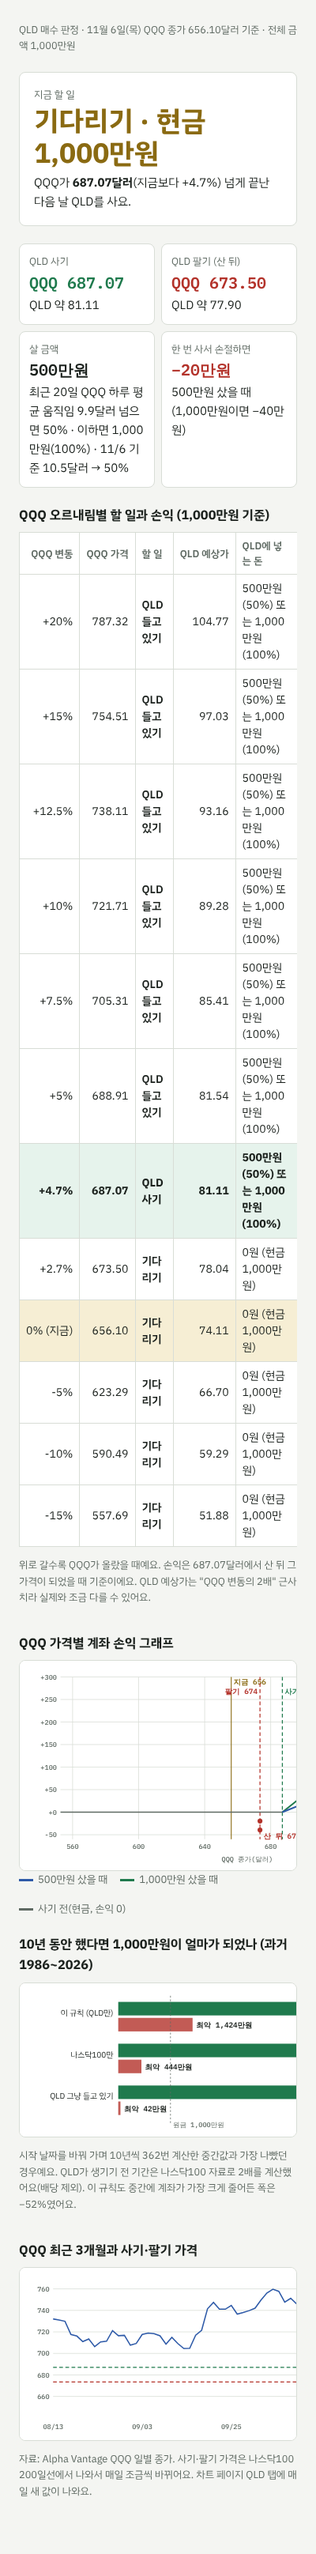
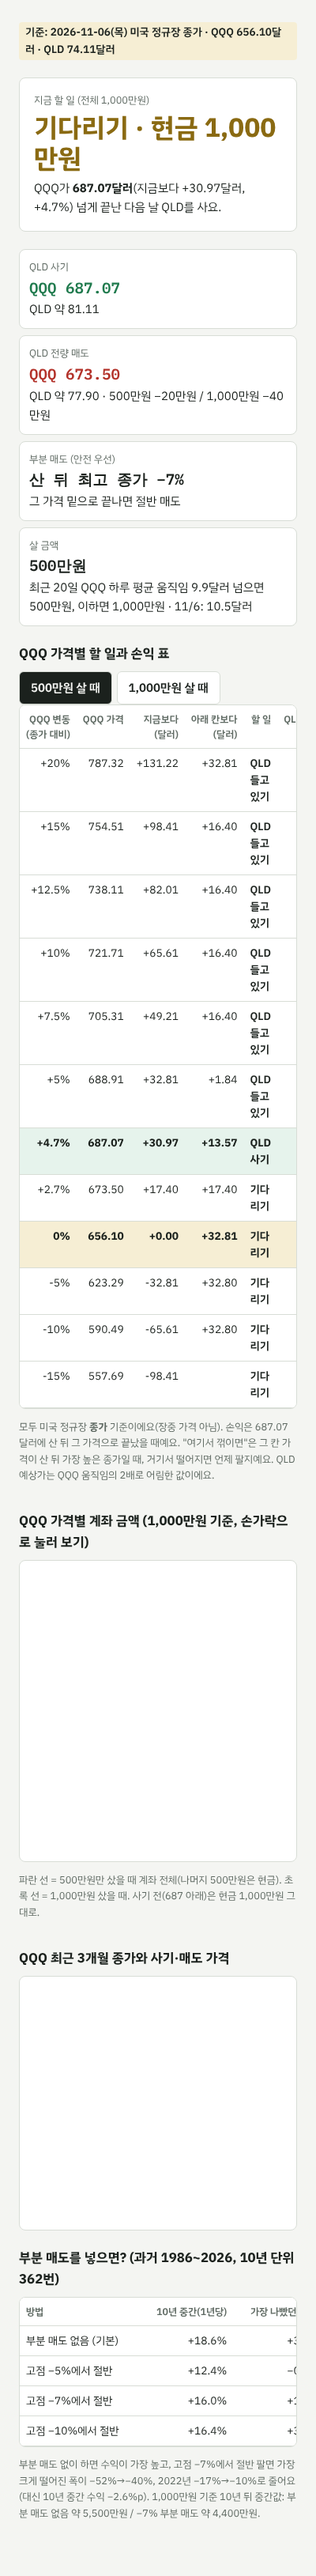
QLD rule page v3: separate 5M/10M tables, price gaps, partial/full sell levels, Chart.js charts
Claude-Session: https://claude.ai/code/session_01SXrsaJiqkh3emKAWcZtXCN

Changed region(s): [[0.06, 0.0, 0.96, 0.9904]]

diff --git a/trading/qld-rule/index.html b/trading/qld-rule/index.html
@@ -1,65 +1,84 @@
 <title>QLD 매수 판정</title>
 <meta name="claude:viewport-fit-sides" content="cover">
 <link rel="stylesheet" href="https://fonts.googleapis.com/css2?family=IBM+Plex+Sans+KR:wght@400;600;700&family=IBM+Plex+Mono:wght@500;600&display=swap">
+<script src="https://cdnjs.cloudflare.com/ajax/libs/Chart.js/4.4.1/chart.umd.min.js"></script>
 <style>
-/* 방향: 가격표(시나리오) 중심 판정서. 1,000만원 기준, 11/6 종가 */
+/* 방향: 가격 사다리 판정서. 1,000만원 기준, 금액별 탭, 인터랙티브 차트 */
 :root{--bg:#f4f5f2;--paper:#fff;--ink:#1b211d;--muted:#5f6a63;--rule:#d8ddd6;--buy:#1f7a4d;--sell:#b3322a;--wait:#8a6a12;--line:#2e5aa8;--hl:#e6f3ec;--now:#f6eed4;
 --sans:"IBM Plex Sans KR",system-ui,sans-serif;--mono:"IBM Plex Mono",ui-monospace,monospace}
 @media (prefers-color-scheme:dark){:root:not([data-theme="light"]){--bg:#121614;--paper:#1a1f1c;--ink:#e6ebe7;--muted:#9ba69f;--rule:#2d3530;--buy:#6fd39c;--sell:#f2877d;--wait:#e3c062;--line:#8fb3ff;--hl:#173021;--now:#33290f;color-scheme:dark}}
 :root[data-theme="dark"]{--bg:#121614;--paper:#1a1f1c;--ink:#e6ebe7;--muted:#9ba69f;--rule:#2d3530;--buy:#6fd39c;--sell:#f2877d;--wait:#e3c062;--line:#8fb3ff;--hl:#173021;--now:#33290f;color-scheme:dark}
 body{background:var(--bg);color:var(--ink);font-family:var(--sans);font-size:15px;line-height:1.6}
-.wrap{max-width:820px;margin:0 auto;padding-block:20px 48px;padding-left:max(16px,env(safe-area-inset-left,0px));padding-right:max(16px,env(safe-area-inset-right,0px));display:grid;gap:22px}
-.wrap>*{min-width:0} .kicker{font-size:.8rem;color:var(--muted)} h2{font-size:1.02rem;margin:0 0 8px}
-.verdict{background:var(--paper);border:1px solid var(--rule);border-radius:8px;padding:18px;display:grid;gap:4px}
-.verdict .big{font-size:2.2rem;font-weight:700;color:var(--wait);line-height:1.15}
-.cards{display:grid;grid-template-columns:repeat(auto-fit,minmax(170px,1fr));gap:8px}
-.card{background:var(--paper);border:1px solid var(--rule);border-radius:8px;padding:12px} .card b{display:block;font-family:var(--mono);font-size:1.25rem}
-.card.buy b{color:var(--buy)} .card.sell b{color:var(--sell)}
-.tbl{overflow-x:auto} table{border-collapse:collapse;width:100%;font-size:.88rem;background:var(--paper);min-width:640px}
-td,th{border:1px solid var(--rule);padding:7px 8px;text-align:right;font-variant-numeric:tabular-nums;white-space:nowrap} td:nth-child(3),td:nth-child(5),th:nth-child(3),th:nth-child(5){text-align:left;white-space:normal}
-th{color:var(--muted);font-weight:600;font-size:.8rem} tr.hit td{background:var(--hl);font-weight:700} tr.now td{background:var(--now)}
-td.act{font-weight:600}
-.chart{background:var(--paper);border:1px solid var(--rule);border-radius:8px;padding:8px;overflow-x:auto} svg{width:100%;min-width:560px;height:auto;display:block}
-.g{stroke:var(--rule)} .ax{fill:var(--muted);font-size:11px;font-family:var(--mono)} .lb{font-size:12px;font-weight:600;font-family:var(--mono);fill:var(--ink)} .lbl{font-size:13px;fill:var(--ink)}
-.buy{stroke:var(--buy);stroke-width:1.6;stroke-dasharray:6 4} .sell{stroke:var(--sell);stroke-width:1.6;stroke-dasharray:6 4} .cur{stroke:var(--wait);stroke-width:1.4}
-.buyt{fill:var(--buy)} .sellt{fill:var(--sell)} .curt{fill:var(--wait)}
-.p100{fill:none;stroke:var(--buy);stroke-width:2.6} .p50{fill:none;stroke:var(--line);stroke-width:2.6} .flat{stroke:var(--muted);stroke-width:2} .lossdot{fill:var(--sell)}
-.px{fill:none;stroke:var(--line);stroke-width:2} .dot{fill:var(--wait)}
-.bmed{fill:var(--buy)} .bwor{fill:var(--sell);opacity:.8} .base{stroke:var(--muted);stroke-dasharray:3 3}
-.legend{display:flex;gap:16px;flex-wrap:wrap;font-size:.82rem;color:var(--muted)} .legend i{display:inline-block;width:18px;height:3px;vertical-align:middle;margin-right:6px}
-.neg{color:var(--sell)} .foot{font-size:.8rem;color:var(--muted)}
+.wrap{max-width:1000px;margin:0 auto;padding-block:20px 48px;padding-left:max(16px,env(safe-area-inset-left,0px));padding-right:max(16px,env(safe-area-inset-right,0px));display:grid;gap:22px}
+.wrap>*{min-width:0} .kicker{font-size:.8rem;color:var(--muted)} h2{font-size:1.05rem;margin:0 0 8px}
+.stamp{display:inline-block;background:var(--now);border-radius:4px;padding:2px 8px;font-weight:600;font-size:.85rem}
+.verdict{background:var(--paper);border:1px solid var(--rule);border-radius:8px;padding:18px;display:grid;gap:6px}
+.verdict .big{font-size:2.1rem;font-weight:700;color:var(--wait);line-height:1.15}
+.cards{display:grid;grid-template-columns:repeat(auto-fit,minmax(190px,1fr));gap:8px}
+.card{background:var(--paper);border:1px solid var(--rule);border-radius:8px;padding:12px} .card b{display:block;font-family:var(--mono);font-size:1.2rem}
+.card.buy b{color:var(--buy)} .card.sell b{color:var(--sell)} .neg{color:var(--sell)} .pos{color:var(--buy)}
+.tabs{display:flex;gap:6px} .tabs button{font:inherit;font-weight:600;padding:8px 14px;border:1px solid var(--rule);border-radius:6px;background:var(--paper);color:var(--ink);cursor:pointer}
+.tabs button[aria-pressed="true"]{background:var(--ink);color:var(--bg)}
+.tbl{overflow-x:auto;border:1px solid var(--rule);border-radius:8px} table{border-collapse:collapse;width:100%;font-size:.86rem;background:var(--paper);min-width:980px}
+td,th{border-bottom:1px solid var(--rule);padding:8px;text-align:right;font-variant-numeric:tabular-nums;white-space:nowrap;vertical-align:top}
+td.txt,td.act{text-align:left;white-space:normal} td.txt{min-width:200px;font-size:.82rem}
+th{color:var(--muted);font-weight:600;font-size:.78rem;text-align:right;background:var(--paper);position:sticky;top:0}
+tr.hit td{background:var(--hl);font-weight:700} tr.now td{background:var(--now);font-weight:700} td.act{font-weight:600}
+.cv{background:var(--paper);border:1px solid var(--rule);border-radius:8px;padding:10px;position:relative;height:360px}
+.cv.s{height:300px}
+.foot{font-size:.8rem;color:var(--muted)}
+.cmp td:first-child,.cmp th:first-child{text-align:left} .cmp table{min-width:640px}
 </style>
 <div class="wrap">
-  <div class="kicker">QLD 매수 판정 · 11월 6일(목) QQQ 종가 656.10달러 기준 · 전체 금액 1,000만원</div>
-  <section class="verdict"><div class="kicker">지금 할 일</div><div class="big">기다리기 · 현금 1,000만원</div>
-    <div>QQQ가 <b>687.07달러</b>(지금보다 +4.7%) 넘게 끝난 다음 날 QLD를 사요.</div></section>
+  <div><span class="stamp">기준: 2026-11-06(목) 미국 정규장 종가 · QQQ 656.10달러 · QLD 74.11달러</span></div>
+  <section class="verdict"><div class="kicker">지금 할 일 (전체 1,000만원)</div><div class="big">기다리기 · 현금 1,000만원</div>
+    <div>QQQ가 <b>687.07달러</b>(지금보다 +30.97달러, +4.7%) 넘게 끝난 다음 날 QLD를 사요.</div></section>
   <div class="cards">
     <div class="card buy"><span class="kicker">QLD 사기</span><b>QQQ 687.07</b>QLD 약 81.11</div>
-    <div class="card sell"><span class="kicker">QLD 팔기 (산 뒤)</span><b>QQQ 673.50</b>QLD 약 77.90</div>
-    <div class="card"><span class="kicker">살 금액</span><b>500만원</b>최근 20일 QQQ 하루 평균 움직임 9.9달러 넘으면 50% · 이하면 1,000만원(100%) · 11/6 기준 10.5달러 → 50%</div>
-    <div class="card"><span class="kicker">한 번 사서 손절하면</span><b class="neg">−20만원</b>500만원 샀을 때 (1,000만원이면 −40만원)</div>
+    <div class="card sell"><span class="kicker">QLD 전량 매도</span><b>QQQ 673.50</b>QLD 약 77.90 · 500만원 −20만원 / 1,000만원 −40만원</div>
+    <div class="card"><span class="kicker">부분 매도 (안전 우선)</span><b>산 뒤 최고 종가 −7%</b>그 가격 밑으로 끝나면 절반 매도</div>
+    <div class="card"><span class="kicker">살 금액</span><b>500만원</b>최근 20일 QQQ 하루 평균 움직임 9.9달러 넘으면 500만원, 이하면 1,000만원 · 11/6: 10.5달러</div>
   </div>
-  <section><h2>QQQ 오르내림별 할 일과 손익 (1,000만원 기준)</h2>
-    <div class="tbl"><table><thead><tr><th>QQQ 변동</th><th>QQQ 가격</th><th>할 일</th><th>QLD 예상가</th><th>QLD에 넣는 돈</th><th>손익 (500만원 샀을 때)</th><th>손익 (1,000만원 샀을 때)</th></tr></thead><tbody><tr class=""><td>+20%</td><td>787.32</td><td class="act">QLD 들고 있기</td><td>104.77</td><td>500 / 1,000만원</td><td>+146만원</td><td>+292만원</td></tr><tr class=""><td>+15%</td><td>754.51</td><td class="act">QLD 들고 있기</td><td>97.03</td><td>500 / 1,000만원</td><td>+98만원</td><td>+196만원</td></tr><tr class=""><td>+12.5%</td><td>738.11</td><td class="act">QLD 들고 있기</td><td>93.16</td><td>500 / 1,000만원</td><td>+74만원</td><td>+149만원</td></tr><tr class=""><td>+10%</td><td>721.71</td><td class="act">QLD 들고 있기</td><td>89.28</td><td>500 / 1,000만원</td><td>+50만원</td><td>+101만원</td></tr><tr class=""><td>+7.5%</td><td>705.31</td><td class="act">QLD 들고 있기</td><td>85.41</td><td>500 / 1,000만원</td><td>+27만원</td><td>+53만원</td></tr><tr class=""><td>+5%</td><td>688.91</td><td class="act">QLD 들고 있기</td><td>81.54</td><td>500 / 1,000만원</td><td>+3만원</td><td>+5만원</td></tr><tr class="hit"><td>+4.7%</td><td>687.07</td><td class="act">QLD 사기</td><td>81.11</td><td>500 / 1,000만원</td><td>0만원</td><td>0만원</td></tr><tr class=""><td>+2.7%</td><td>673.50</td><td class="act">기다리기</td><td>78.04</td><td>0 (현금)</td><td>—</td><td>—</td></tr><tr class="now"><td>0% (지금)</td><td>656.10</td><td class="act">기다리기</td><td>74.11</td><td>0 (현금)</td><td>—</td><td>—</td></tr><tr class=""><td>-5%</td><td>623.29</td><td class="act">기다리기</td><td>66.70</td><td>0 (현금)</td><td>—</td><td>—</td></tr><tr class=""><td>-10%</td><td>590.49</td><td class="act">기다리기</td><td>59.29</td><td>0 (현금)</td><td>—</td><td>—</td></tr><tr class=""><td>-15%</td><td>557.69</td><td class="act">기다리기</td><td>51.88</td><td>0 (현금)</td><td>—</td><td>—</td></tr></tbody></table></div>
-    <p class="foot">위로 갈수록 QQQ가 올랐을 때예요. 손익은 687.07달러에서 산 뒤 그 가격이 되었을 때 기준이에요. QLD 예상가는 "QQQ 변동의 2배" 근사치라 실제와 조금 다를 수 있어요.</p></section>
-  <section><h2>QQQ 가격별 계좌 손익 그래프</h2>
-    <div class="chart"><svg viewBox="0 0 720 320" role="img" aria-label="QQQ 가격별 계좌 손익"><line x1="56" x2="700" y1="272.7" y2="272.7" class="g"/><text x="50" y="276.7" class="ax" text-anchor="end">-50</text><line x1="56" x2="700" y1="236.0" y2="236.0" class="g"/><text x="50" y="240.0" class="ax" text-anchor="end">+0</text><line x1="56" x2="700" y1="199.3" y2="199.3" class="g"/><text x="50" y="203.3" class="ax" text-anchor="end">+50</text><line x1="56" x2="700" y1="162.7" y2="162.7" class="g"/><text x="50" y="166.7" class="ax" text-anchor="end">+100</text><line x1="56" x2="700" y1="126.0" y2="126.0" class="g"/><text x="50" y="130.0" class="ax" text-anchor="end">+150</text><line x1="56" x2="700" y1="89.3" y2="89.3" class="g"/><text x="50" y="93.3" class="ax" text-anchor="end">+200</text><line x1="56" x2="700" y1="52.7" y2="52.7" class="g"/><text x="50" y="56.7" class="ax" text-anchor="end">+250</text><line x1="56" x2="700" y1="16.0" y2="16.0" class="g"/><text x="50" y="20.0" class="ax" text-anchor="end">+300</text><line x1="75.7" x2="75.7" y1="16" y2="280" class="g"/><text x="75.7" y="296" class="ax" text-anchor="middle">560</text><line x1="183.2" x2="183.2" y1="16" y2="280" class="g"/><text x="183.2" y="296" class="ax" text-anchor="middle">600</text><line x1="290.7" x2="290.7" y1="16" y2="280" class="g"/><text x="290.7" y="296" class="ax" text-anchor="middle">640</text><line x1="398.1" x2="398.1" y1="16" y2="280" class="g"/><text x="398.1" y="296" class="ax" text-anchor="middle">680</text><line x1="505.6" x2="505.6" y1="16" y2="280" class="g"/><text x="505.6" y="296" class="ax" text-anchor="middle">720</text><line x1="613.1" x2="613.1" y1="16" y2="280" class="g"/><text x="613.1" y="296" class="ax" text-anchor="middle">760</text><line x1="720.6" x2="720.6" y1="16" y2="280" class="g"/><text x="720.6" y="296" class="ax" text-anchor="middle">800</text>
-<line x1="333.9" x2="333.9" y1="16" y2="280" class="cur"/><text x="329.9" y="274" class="lb curt" text-anchor="end">지금 656</text>
-<line x1="380.7" x2="380.7" y1="16" y2="280" class="sell"/><text x="376.7" y="28" class="lb sellt" text-anchor="end">팔기 674</text>
-<line x1="417.1" x2="417.1" y1="16" y2="280" class="buy"/><text x="421.1" y="28" class="lb buyt">사기 687</text>
-<line x1="56.0" x2="417.1" y1="236.0" y2="236.0" class="flat"/>
-<polyline points="417.1,236.0 422.1,232.1 466.2,197.1 510.2,162.1 554.3,127.0 598.4,92.0 686.6,22.0" class="p100"/><polyline points="417.1,236.0 422.1,234.0 466.2,216.5 510.2,199.0 554.3,181.5 598.4,164.0 686.6,129.0" class="p50"/>
-<circle cx="380.7" cy="265.0" r="4" class="lossdot"/><circle cx="380.7" cy="250.5" r="4" class="lossdot"/>
-<text x="386.7" y="279.0" class="lb sellt">손절 시 −20만원 / −40만원</text>
-<text x="360" y="316" class="ax" text-anchor="middle">QQQ 종가(달러)</text>
-</svg></div>
-    <div class="legend"><span><i style="background:var(--line)"></i>500만원 샀을 때</span><span><i style="background:var(--buy)"></i>1,000만원 샀을 때</span><span><i style="background:var(--muted)"></i>사기 전(현금, 손익 0)</span></div></section>
-  <section><h2>10년 동안 했다면 1,000만원이 얼마가 되었나 (과거 1986~2026)</h2>
-    <div class="chart"><svg viewBox="0 0 720 230" role="img" aria-label="10년 뒤 1,000만원이 얼마가 되었나"><text x="142" y="42" class="lbl" text-anchor="end">이 규칙 (QLD만)</text><rect x="150" y="20" width="468.0" height="22" class="bmed"/><text x="624.0" y="36" class="lb">중간 5,506만원</text><rect x="150" y="46" width="121.0" height="22" class="bwor"/><text x="277.0" y="62" class="lb">최악 1,424만원</text><text x="142" y="110" class="lbl" text-anchor="end">나스닥100만</text><rect x="150" y="88" width="312.4" height="22" class="bmed"/><text x="468.4" y="104" class="lb">중간 3,675만원</text><rect x="150" y="114" width="37.7" height="22" class="bwor"/><text x="193.7" y="130" class="lb">최악 444만원</text><text x="142" y="178" class="lbl" text-anchor="end">QLD 그냥 들고 있기</text><rect x="150" y="156" width="378.2" height="22" class="bmed"/><text x="534.2" y="172" class="lb">중간 4,450만원</text><rect x="150" y="182" width="3.6" height="22" class="bwor"/><text x="159.6" y="198" class="lb">최악 42만원</text><line x1="235.0" x2="235.0" y1="10" y2="220" class="base"/><text x="239.0" y="224" class="ax">원금 1,000만원</text></svg></div>
-    <p class="foot">시작 날짜를 바꿔 가며 10년씩 362번 계산한 중간값과 가장 나빴던 경우예요. QLD가 생기기 전 기간은 나스닥100 자료로 2배를 계산했어요(배당 제외). 이 규칙도 중간에 계좌가 가장 크게 줄어든 폭은 −52%였어요.</p></section>
-  <section><h2>QQQ 최근 3개월과 사기·팔기 가격</h2><div class="chart"><svg viewBox="0 0 720 260" role="img" aria-label="QQQ 최근 3개월 종가"><line x1="44" x2="624" y1="198.8" y2="198.8" class="g"/><text x="38" y="202.8" class="ax" text-anchor="end">660</text><line x1="44" x2="624" y1="163.9" y2="163.9" class="g"/><text x="38" y="167.9" class="ax" text-anchor="end">680</text><line x1="44" x2="624" y1="128.9" y2="128.9" class="g"/><text x="38" y="132.9" class="ax" text-anchor="end">700</text><line x1="44" x2="624" y1="93.9" y2="93.9" class="g"/><text x="38" y="97.9" class="ax" text-anchor="end">720</text><line x1="44" x2="624" y1="58.9" y2="58.9" class="g"/><text x="38" y="62.9" class="ax" text-anchor="end">740</text><line x1="44" x2="624" y1="23.9" y2="23.9" class="g"/><text x="38" y="27.9" class="ax" text-anchor="end">760</text><text x="44.0" y="252" class="ax" text-anchor="middle">08/13</text><text x="189.0" y="252" class="ax" text-anchor="middle">09/03</text><text x="334.0" y="252" class="ax" text-anchor="middle">09/25</text><text x="479.0" y="252" class="ax" text-anchor="middle">10/16</text><text x="624.0" y="252" class="ax" text-anchor="middle">11/06</text>
-<line x1="44" x2="624" y1="151.5" y2="151.5" class="buy"/><text x="630" y="155.5" class="lb buyt">사기 687</text>
-<line x1="44" x2="624" y1="175.2" y2="175.2" class="sell"/><text x="630" y="179.2" class="lb sellt">팔기 674</text>
-<polyline points="44.0,72.8 53.7,74.5 63.3,76.6 73.0,98.2 82.7,100.7 92.3,109.7 102.0,105.4 111.7,117.8 121.3,110.1 131.0,109.0 140.7,91.9 150.3,100.1 160.0,99.5 169.7,115.5 179.3,112.7 189.0,98.0 198.7,95.7 208.3,96.7 218.0,100.3 227.7,113.7 237.3,102.8 247.0,112.8 256.7,120.9 266.3,120.6 276.0,99.3 285.7,91.3 295.3,56.3 305.0,45.8 314.7,56.8 324.3,57.0 334.0,51.0 343.7,65.0 353.3,62.5 363.0,59.3 372.7,55.3 382.3,42.1 392.0,30.5 401.7,24.5 411.3,27.9 421.0,45.6 430.7,39.2 440.3,48.3 450.0,52.6 459.7,78.2 469.3,79.9 479.0,111.7 488.7,96.7 498.3,98.0 508.0,84.8 517.7,121.0 527.3,121.2 537.0,107.5 546.7,91.7 556.3,84.1 566.0,102.0 575.7,145.5 585.3,162.0 595.0,154.6 604.7,143.0 614.3,221.5 624.0,205.7" class="px"/><circle cx="624.0" cy="205.7" r="5" class="dot"/><text x="630" y="209.7" class="lb curt">지금 656</text></svg></div>
-    <p class="foot">자료: Alpha Vantage QQQ 일별 종가. 사기·팔기 가격은 나스닥100 200일선에서 나와서 매일 조금씩 바뀌어요. 차트 페이지 QLD 탭에 매일 새 값이 나와요.</p></section>
+
+  <section><h2>QQQ 가격별 할 일과 손익 표</h2>
+    <div class="tabs" role="group" aria-label="투자 금액"><button type="button" data-t="t5" aria-pressed="true">500만원 살 때</button><button type="button" data-t="t10" aria-pressed="false">1,000만원 살 때</button></div>
+    <div class="tbl" id="t5"><table><thead><tr><th>QQQ 변동<br>(종가 대비)</th><th>QQQ 가격</th><th>지금보다<br>(달러)</th><th>아래 칸보다<br>(달러)</th><th>할 일</th><th>QLD 예상가</th><th>QLD 평가금액</th><th>손익</th><th>수익률</th><th>여기서 꺾이면 ① 부분 매도</th><th>② 전량 매도</th></tr></thead><tbody><tr class=""><td>+20%</td><td>787.32</td><td>+131.22</td><td>+32.81</td><td class="act">QLD 들고 있기</td><td>104.77</td><td>646만원</td><td class="pos">+146만원</td><td>+29.2%</td><td class="txt">QQQ 732.21 밑 마감 → 절반(250만원어치) 매도 · 그 절반 손익 +33만원</td><td class="txt">QQQ 673.50 밑 마감 → 나머지 전량 매도 · 그 절반 손익 −10만원</td></tr><tr class=""><td>+15%</td><td>754.51</td><td>+98.41</td><td>+16.40</td><td class="act">QLD 들고 있기</td><td>97.03</td><td>598만원</td><td class="pos">+98만원</td><td>+19.6%</td><td class="txt">QQQ 701.69 밑 마감 → 절반(250만원어치) 매도 · 그 절반 손익 +11만원</td><td class="txt">QQQ 673.50 밑 마감 → 나머지 전량 매도 · 그 절반 손익 −10만원</td></tr><tr class=""><td>+12.5%</td><td>738.11</td><td>+82.01</td><td>+16.40</td><td class="act">QLD 들고 있기</td><td>93.16</td><td>574만원</td><td class="pos">+74만원</td><td>+14.9%</td><td class="txt">QQQ 686.44 밑 마감 → 절반(250만원어치) 매도 · 그 절반 손익 −0만원</td><td class="txt">QQQ 673.50 밑 마감 → 나머지 전량 매도 · 그 절반 손익 −10만원</td></tr><tr class=""><td>+10%</td><td>721.71</td><td>+65.61</td><td>+16.40</td><td class="act">QLD 들고 있기</td><td>89.28</td><td>550만원</td><td class="pos">+50만원</td><td>+10.1%</td><td class="txt">부분 매도 없이 아래 전량 매도선</td><td class="txt">QQQ 673.50 밑 마감 → 전량 매도 · 손익 −20만원</td></tr><tr class=""><td>+7.5%</td><td>705.31</td><td>+49.21</td><td>+16.40</td><td class="act">QLD 들고 있기</td><td>85.41</td><td>527만원</td><td class="pos">+27만원</td><td>+5.3%</td><td class="txt">부분 매도 없이 아래 전량 매도선</td><td class="txt">QQQ 673.50 밑 마감 → 전량 매도 · 손익 −20만원</td></tr><tr class=""><td>+5%</td><td>688.91</td><td>+32.81</td><td>+1.84</td><td class="act">QLD 들고 있기</td><td>81.54</td><td>503만원</td><td class="pos">+3만원</td><td>+0.5%</td><td class="txt">부분 매도 없이 아래 전량 매도선</td><td class="txt">QQQ 673.50 밑 마감 → 전량 매도 · 손익 −20만원</td></tr><tr class="hit"><td>+4.7%</td><td>687.07</td><td>+30.97</td><td>+13.57</td><td class="act">QLD 사기</td><td>81.11</td><td>500만원</td><td class="">0만원</td><td>+0.0%</td><td class="txt">부분 매도 없이 아래 전량 매도선</td><td class="txt">QQQ 673.50 밑 마감 → 전량 매도 · 손익 −20만원</td></tr><tr class=""><td>+2.7%</td><td>673.50</td><td>+17.40</td><td>+17.40</td><td class="act">기다리기</td><td>78.04</td><td>500만원</td><td class="">0</td><td>+0.0%</td><td class="txt">—</td><td class="txt">—</td></tr><tr class="now"><td>0%</td><td>656.10</td><td>+0.00</td><td>+32.81</td><td class="act">기다리기</td><td>74.11</td><td>500만원</td><td class="">0</td><td>+0.0%</td><td class="txt">—</td><td class="txt">—</td></tr><tr class=""><td>-5%</td><td>623.29</td><td>-32.81</td><td>+32.80</td><td class="act">기다리기</td><td>66.70</td><td>500만원</td><td class="">0</td><td>+0.0%</td><td class="txt">—</td><td class="txt">—</td></tr><tr class=""><td>-10%</td><td>590.49</td><td>-65.61</td><td>+32.80</td><td class="act">기다리기</td><td>59.29</td><td>500만원</td><td class="">0</td><td>+0.0%</td><td class="txt">—</td><td class="txt">—</td></tr><tr class=""><td>-15%</td><td>557.69</td><td>-98.41</td><td></td><td class="act">기다리기</td><td>51.88</td><td>500만원</td><td class="">0</td><td>+0.0%</td><td class="txt">—</td><td class="txt">—</td></tr></tbody></table></div>
+    <div class="tbl" id="t10" hidden><table><thead><tr><th>QQQ 변동<br>(종가 대비)</th><th>QQQ 가격</th><th>지금보다<br>(달러)</th><th>아래 칸보다<br>(달러)</th><th>할 일</th><th>QLD 예상가</th><th>QLD 평가금액</th><th>손익</th><th>수익률</th><th>여기서 꺾이면 ① 부분 매도</th><th>② 전량 매도</th></tr></thead><tbody><tr class=""><td>+20%</td><td>787.32</td><td>+131.22</td><td>+32.81</td><td class="act">QLD 들고 있기</td><td>104.77</td><td>1,292만원</td><td class="pos">+292만원</td><td>+29.2%</td><td class="txt">QQQ 732.21 밑 마감 → 절반(500만원어치) 매도 · 그 절반 손익 +66만원</td><td class="txt">QQQ 673.50 밑 마감 → 나머지 전량 매도 · 그 절반 손익 −20만원</td></tr><tr class=""><td>+15%</td><td>754.51</td><td>+98.41</td><td>+16.40</td><td class="act">QLD 들고 있기</td><td>97.03</td><td>1,196만원</td><td class="pos">+196만원</td><td>+19.6%</td><td class="txt">QQQ 701.69 밑 마감 → 절반(500만원어치) 매도 · 그 절반 손익 +21만원</td><td class="txt">QQQ 673.50 밑 마감 → 나머지 전량 매도 · 그 절반 손익 −20만원</td></tr><tr class=""><td>+12.5%</td><td>738.11</td><td>+82.01</td><td>+16.40</td><td class="act">QLD 들고 있기</td><td>93.16</td><td>1,149만원</td><td class="pos">+149만원</td><td>+14.9%</td><td class="txt">QQQ 686.44 밑 마감 → 절반(500만원어치) 매도 · 그 절반 손익 −1만원</td><td class="txt">QQQ 673.50 밑 마감 → 나머지 전량 매도 · 그 절반 손익 −20만원</td></tr><tr class=""><td>+10%</td><td>721.71</td><td>+65.61</td><td>+16.40</td><td class="act">QLD 들고 있기</td><td>89.28</td><td>1,101만원</td><td class="pos">+101만원</td><td>+10.1%</td><td class="txt">부분 매도 없이 아래 전량 매도선</td><td class="txt">QQQ 673.50 밑 마감 → 전량 매도 · 손익 −40만원</td></tr><tr class=""><td>+7.5%</td><td>705.31</td><td>+49.21</td><td>+16.40</td><td class="act">QLD 들고 있기</td><td>85.41</td><td>1,053만원</td><td class="pos">+53만원</td><td>+5.3%</td><td class="txt">부분 매도 없이 아래 전량 매도선</td><td class="txt">QQQ 673.50 밑 마감 → 전량 매도 · 손익 −40만원</td></tr><tr class=""><td>+5%</td><td>688.91</td><td>+32.81</td><td>+1.84</td><td class="act">QLD 들고 있기</td><td>81.54</td><td>1,005만원</td><td class="pos">+5만원</td><td>+0.5%</td><td class="txt">부분 매도 없이 아래 전량 매도선</td><td class="txt">QQQ 673.50 밑 마감 → 전량 매도 · 손익 −40만원</td></tr><tr class="hit"><td>+4.7%</td><td>687.07</td><td>+30.97</td><td>+13.57</td><td class="act">QLD 사기</td><td>81.11</td><td>1,000만원</td><td class="">0만원</td><td>+0.0%</td><td class="txt">부분 매도 없이 아래 전량 매도선</td><td class="txt">QQQ 673.50 밑 마감 → 전량 매도 · 손익 −40만원</td></tr><tr class=""><td>+2.7%</td><td>673.50</td><td>+17.40</td><td>+17.40</td><td class="act">기다리기</td><td>78.04</td><td>1,000만원</td><td class="">0</td><td>+0.0%</td><td class="txt">—</td><td class="txt">—</td></tr><tr class="now"><td>0%</td><td>656.10</td><td>+0.00</td><td>+32.81</td><td class="act">기다리기</td><td>74.11</td><td>1,000만원</td><td class="">0</td><td>+0.0%</td><td class="txt">—</td><td class="txt">—</td></tr><tr class=""><td>-5%</td><td>623.29</td><td>-32.81</td><td>+32.80</td><td class="act">기다리기</td><td>66.70</td><td>1,000만원</td><td class="">0</td><td>+0.0%</td><td class="txt">—</td><td class="txt">—</td></tr><tr class=""><td>-10%</td><td>590.49</td><td>-65.61</td><td>+32.80</td><td class="act">기다리기</td><td>59.29</td><td>1,000만원</td><td class="">0</td><td>+0.0%</td><td class="txt">—</td><td class="txt">—</td></tr><tr class=""><td>-15%</td><td>557.69</td><td>-98.41</td><td></td><td class="act">기다리기</td><td>51.88</td><td>1,000만원</td><td class="">0</td><td>+0.0%</td><td class="txt">—</td><td class="txt">—</td></tr></tbody></table></div>
+    <p class="foot">모두 미국 정규장 <b>종가</b> 기준이에요(장중 가격 아님). 손익은 687.07달러에 산 뒤 그 가격으로 끝났을 때예요. "여기서 꺾이면"은 그 칸 가격이 산 뒤 가장 높은 종가일 때, 거기서 떨어지면 언제 팔지예요. QLD 예상가는 QQQ 움직임의 2배로 어림한 값이에요.</p></section>
+
+  <section><h2>QQQ 가격별 계좌 금액 (1,000만원 기준, 손가락으로 눌러 보기)</h2>
+    <div class="cv"><canvas id="c1" aria-label="QQQ 가격별 계좌 금액"></canvas></div>
+    <p class="foot">파란 선 = 500만원만 샀을 때 계좌 전체(나머지 500만원은 현금). 초록 선 = 1,000만원 샀을 때. 사기 전(687 아래)은 현금 1,000만원 그대로.</p></section>
+
+  <section><h2>QQQ 최근 3개월 종가와 사기·매도 가격</h2>
+    <div class="cv s"><canvas id="c2" aria-label="QQQ 최근 3개월"></canvas></div></section>
+
+  <section class="cmp"><h2>부분 매도를 넣으면? (과거 1986~2026, 10년 단위 362번)</h2>
+    <div class="tbl"><table><thead><tr><th>방법</th><th>10년 중간(1년당)</th><th>가장 나빴던 10년</th><th>반 토막</th><th>가장 크게 떨어진 폭</th><th>2022년</th></tr></thead><tbody><tr><td>부분 매도 없음 (기본)</td><td>+18.6%</td><td>+3.6%</td><td>0%</td><td>−52%</td><td>−17%</td></tr><tr><td>고점 −5%에서 절반</td><td>+12.4%</td><td>−0.1%</td><td>0%</td><td>−39%</td><td>−10%</td></tr><tr><td>고점 −7%에서 절반</td><td>+16.0%</td><td>+1.9%</td><td>0%</td><td>−40%</td><td>−10%</td></tr><tr><td>고점 −10%에서 절반</td><td>+16.4%</td><td>+3.1%</td><td>0%</td><td>−47%</td><td>−10%</td></tr></tbody></table></div>
+    <p class="foot">부분 매도 없이 하면 수익이 가장 높고, 고점 −7%에서 절반 팔면 가장 크게 떨어진 폭이 −52%→−40%, 2022년 −17%→−10%로 줄어요(대신 10년 중간 수익 −2.6%p). 1,000만원 기준 10년 뒤 중간값: 부분 매도 없음 약 5,500만원 / −7% 부분 매도 약 4,400만원.</p></section>
 </div>
+<script>
+const J={"chart": {"x": [557.69, 560.97, 564.25, 567.53, 570.81, 574.09, 577.37, 580.65, 583.93, 587.21, 590.49, 593.77, 597.05, 600.33, 603.61, 606.89, 610.17, 613.45, 616.73, 620.01, 623.29, 626.58, 629.86, 633.14, 636.42, 639.7, 642.98, 646.26, 649.54, 652.82, 656.1, 659.38, 662.66, 665.94, 669.22, 672.5, 675.78, 679.06, 682.34, 685.62, 688.91, 692.19, 695.47, 698.75, 702.03, 705.31, 708.59, 711.87, 715.15, 718.43, 721.71, 724.99, 728.27, 731.55, 734.83, 738.11, 741.39, 744.67, 747.95, 751.23, 754.51, 757.8, 761.08, 764.36, 767.64, 770.92, 774.2, 777.48, 780.76, 784.04, 787.32], "a500": [1000, 1000, 1000, 1000, 1000, 1000, 1000, 1000, 1000, 1000, 1000, 1000, 1000, 1000, 1000, 1000, 1000, 1000, 1000, 1000, 1000, 1000, 1000, 1000, 1000, 1000, 1000, 1000, 1000, 1000, 1000, 1000, 1000, 1000, 1000, 1000, 1000, 1000, 1000, 1000, 1002.7, 1007.5, 1012.2, 1017.0, 1021.8, 1026.5, 1031.3, 1036.1, 1040.9, 1045.6, 1050.4, 1055.2, 1060.0, 1064.7, 1069.5, 1074.3, 1079.1, 1083.8, 1088.6, 1093.4, 1098.2, 1102.9, 1107.7, 1112.5, 1117.3, 1122.0, 1126.8, 1131.6, 1136.4, 1141.1, 1145.9], "a1000": [1000, 1000, 1000, 1000, 1000, 1000, 1000, 1000, 1000, 1000, 1000, 1000, 1000, 1000, 1000, 1000, 1000, 1000, 1000, 1000, 1000, 1000, 1000, 1000, 1000, 1000, 1000, 1000, 1000, 1000, 1000, 1000, 1000, 1000, 1000, 1000, 1000, 1000, 1000, 1000, 1005.4, 1014.9, 1024.5, 1034.0, 1043.5, 1053.1, 1062.6, 1072.2, 1081.7, 1091.3, 1100.8, 1110.4, 1119.9, 1129.5, 1139.0, 1148.6, 1158.1, 1167.7, 1177.2, 1186.8, 1196.3, 1205.9, 1215.4, 1225.0, 1234.5, 1244.1, 1253.6, 1263.2, 1272.7, 1282.3, 1291.8]}, "qqq": {"d": ["08-13", "08-14", "08-17", "08-18", "08-19", "08-20", "08-21", "08-24", "08-25", "08-26", "08-27", "08-28", "08-31", "09-01", "09-02", "09-03", "09-04", "09-08", "09-09", "09-10", "09-11", "09-14", "09-15", "09-16", "09-17", "09-18", "09-21", "09-22", "09-23", "09-24", "09-25", "09-28", "09-29", "09-30", "10-01", "10-02", "10-05", "10-06", "10-07", "10-08", "10-09", "10-12", "10-13", "10-14", "10-15", "10-16", "10-19", "10-20", "10-21", "10-22", "10-23", "10-26", "10-27", "10-28", "10-29", "10-30", "11-02", "11-03", "11-04", "11-05", "11-06"], "c": [732.07, 731.07, 729.87, 717.51, 716.08, 710.93, 713.44, 706.32, 710.72, 711.37, 721.11, 716.43, 716.76, 707.64, 709.24, 717.67, 718.96, 718.36, 716.31, 708.69, 714.88, 709.18, 704.54, 704.72, 716.92, 721.45, 741.47, 747.46, 741.21, 741.1, 744.5, 736.53, 737.93, 739.77, 742.03, 749.58, 756.2, 759.66, 757.73, 747.58, 751.27, 746.04, 743.57, 728.95, 728.0, 709.8, 718.36, 717.63, 725.2, 704.47, 704.4, 712.2, 721.25, 725.61, 715.34, 690.49, 681.09, 685.28, 691.95, 647.05, 656.1]}, "BUY": 687.07, "SELL": 673.5, "CUR": 656.1, "X": 0.07};
+document.querySelectorAll('.tabs button').forEach(b=>b.onclick=()=>{document.querySelectorAll('.tabs button').forEach(x=>x.setAttribute('aria-pressed',x===b));['t5','t10'].forEach(id=>document.getElementById(id).hidden=id!==b.dataset.t)});
+const css=k=>getComputedStyle(document.documentElement).getPropertyValue(k).trim();
+function draw(){
+ if(!window.Chart)return;
+ const C={buy:css('--buy'),sell:css('--sell'),wait:css('--wait'),line:css('--line'),muted:css('--muted'),rule:css('--rule'),ink:css('--ink')};
+ Chart.defaults.color=C.muted;Chart.defaults.font.family="IBM Plex Sans KR, system-ui";
+ const vline=(x,c,t)=>({type:'line',label:t,data:[{x,y:700},{x,y:1300}],borderColor:c,borderDash:[6,4],borderWidth:1.5,pointRadius:0});
+ new Chart(document.getElementById('c1'),{type:'scatter',data:{datasets:[
+  {type:'line',label:'500만원 샀을 때',data:J.chart.x.map((x,i)=>({x,y:J.chart.a500[i]})),borderColor:C.line,borderWidth:2.5,pointRadius:0},
+  {type:'line',label:'1,000만원 샀을 때',data:J.chart.x.map((x,i)=>({x,y:J.chart.a1000[i]})),borderColor:C.buy,borderWidth:2.5,pointRadius:0},
+  vline(J.CUR,C.wait,'지금 656.10'),vline(J.SELL,C.sell,'전량 매도 673.50'),vline(J.BUY,C.buy,'사기 687.07')]},
+  options:{maintainAspectRatio:false,interaction:{mode:'nearest',axis:'x',intersect:false},
+   scales:{x:{type:'linear',title:{display:true,text:'QQQ 종가(달러)'},grid:{color:C.rule}},y:{title:{display:true,text:'계좌 금액(만원)'},grid:{color:C.rule},min:900,max:1300}},
+   plugins:{tooltip:{callbacks:{label:c=>`${c.dataset.label}: QQQ ${c.parsed.x.toFixed(2)} → ${c.parsed.y.toFixed(0)}만원`}}}}});
+ const n=J.qqq.c.length;
+ new Chart(document.getElementById('c2'),{type:'line',data:{labels:J.qqq.d,datasets:[
+  {label:'QQQ 종가',data:J.qqq.c,borderColor:C.line,borderWidth:2,pointRadius:0},
+  {label:'사기 687.07',data:Array(n).fill(J.BUY),borderColor:C.buy,borderDash:[6,4],pointRadius:0,borderWidth:1.5},
+  {label:'전량 매도 673.50',data:Array(n).fill(J.SELL),borderColor:C.sell,borderDash:[6,4],pointRadius:0,borderWidth:1.5}]},
+  options:{maintainAspectRatio:false,interaction:{mode:'index',intersect:false},scales:{x:{grid:{color:C.rule},ticks:{maxTicksLimit:6}},y:{grid:{color:C.rule}}}}});
+}
+draw();
+</script>

diff --git a/trading/qld-rule/tpl2.html b/trading/qld-rule/tpl2.html
@@ -1,0 +1,84 @@
+<title>QLD 매수 판정</title>
+<meta name="claude:viewport-fit-sides" content="cover">
+<link rel="stylesheet" href="https://fonts.googleapis.com/css2?family=IBM+Plex+Sans+KR:wght@400;600;700&family=IBM+Plex+Mono:wght@500;600&display=swap">
+<script src="https://cdnjs.cloudflare.com/ajax/libs/Chart.js/4.4.1/chart.umd.min.js"></script>
+<style>
+/* 방향: 가격 사다리 판정서. 1,000만원 기준, 금액별 탭, 인터랙티브 차트 */
+:root{--bg:#f4f5f2;--paper:#fff;--ink:#1b211d;--muted:#5f6a63;--rule:#d8ddd6;--buy:#1f7a4d;--sell:#b3322a;--wait:#8a6a12;--line:#2e5aa8;--hl:#e6f3ec;--now:#f6eed4;
+--sans:"IBM Plex Sans KR",system-ui,sans-serif;--mono:"IBM Plex Mono",ui-monospace,monospace}
+@media (prefers-color-scheme:dark){:root:not([data-theme="light"]){--bg:#121614;--paper:#1a1f1c;--ink:#e6ebe7;--muted:#9ba69f;--rule:#2d3530;--buy:#6fd39c;--sell:#f2877d;--wait:#e3c062;--line:#8fb3ff;--hl:#173021;--now:#33290f;color-scheme:dark}}
+:root[data-theme="dark"]{--bg:#121614;--paper:#1a1f1c;--ink:#e6ebe7;--muted:#9ba69f;--rule:#2d3530;--buy:#6fd39c;--sell:#f2877d;--wait:#e3c062;--line:#8fb3ff;--hl:#173021;--now:#33290f;color-scheme:dark}
+body{background:var(--bg);color:var(--ink);font-family:var(--sans);font-size:15px;line-height:1.6}
+.wrap{max-width:1000px;margin:0 auto;padding-block:20px 48px;padding-left:max(16px,env(safe-area-inset-left,0px));padding-right:max(16px,env(safe-area-inset-right,0px));display:grid;gap:22px}
+.wrap>*{min-width:0} .kicker{font-size:.8rem;color:var(--muted)} h2{font-size:1.05rem;margin:0 0 8px}
+.stamp{display:inline-block;background:var(--now);border-radius:4px;padding:2px 8px;font-weight:600;font-size:.85rem}
+.verdict{background:var(--paper);border:1px solid var(--rule);border-radius:8px;padding:18px;display:grid;gap:6px}
+.verdict .big{font-size:2.1rem;font-weight:700;color:var(--wait);line-height:1.15}
+.cards{display:grid;grid-template-columns:repeat(auto-fit,minmax(190px,1fr));gap:8px}
+.card{background:var(--paper);border:1px solid var(--rule);border-radius:8px;padding:12px} .card b{display:block;font-family:var(--mono);font-size:1.2rem}
+.card.buy b{color:var(--buy)} .card.sell b{color:var(--sell)} .neg{color:var(--sell)} .pos{color:var(--buy)}
+.tabs{display:flex;gap:6px} .tabs button{font:inherit;font-weight:600;padding:8px 14px;border:1px solid var(--rule);border-radius:6px;background:var(--paper);color:var(--ink);cursor:pointer}
+.tabs button[aria-pressed="true"]{background:var(--ink);color:var(--bg)}
+.tbl{overflow-x:auto;border:1px solid var(--rule);border-radius:8px} table{border-collapse:collapse;width:100%;font-size:.86rem;background:var(--paper);min-width:980px}
+td,th{border-bottom:1px solid var(--rule);padding:8px;text-align:right;font-variant-numeric:tabular-nums;white-space:nowrap;vertical-align:top}
+td.txt,td.act{text-align:left;white-space:normal} td.txt{min-width:200px;font-size:.82rem}
+th{color:var(--muted);font-weight:600;font-size:.78rem;text-align:right;background:var(--paper);position:sticky;top:0}
+tr.hit td{background:var(--hl);font-weight:700} tr.now td{background:var(--now);font-weight:700} td.act{font-weight:600}
+.cv{background:var(--paper);border:1px solid var(--rule);border-radius:8px;padding:10px;position:relative;height:360px}
+.cv.s{height:300px}
+.foot{font-size:.8rem;color:var(--muted)}
+.cmp td:first-child,.cmp th:first-child{text-align:left} .cmp table{min-width:640px}
+</style>
+<div class="wrap">
+  <div><span class="stamp">기준: %%DATE%% · QQQ 656.10달러 · QLD 74.11달러</span></div>
+  <section class="verdict"><div class="kicker">지금 할 일 (전체 1,000만원)</div><div class="big">기다리기 · 현금 1,000만원</div>
+    <div>QQQ가 <b>687.07달러</b>(지금보다 +30.97달러, +4.7%) 넘게 끝난 다음 날 QLD를 사요.</div></section>
+  <div class="cards">
+    <div class="card buy"><span class="kicker">QLD 사기</span><b>QQQ 687.07</b>QLD 약 %%QLDB%%</div>
+    <div class="card sell"><span class="kicker">QLD 전량 매도</span><b>QQQ 673.50</b>QLD 약 %%QLDS%% · 500만원 %%L5%% / 1,000만원 %%L10%%</div>
+    <div class="card"><span class="kicker">부분 매도 (안전 우선)</span><b>산 뒤 최고 종가 −%%XP%%%</b>그 가격 밑으로 끝나면 절반 매도</div>
+    <div class="card"><span class="kicker">살 금액</span><b>500만원</b>최근 20일 QQQ 하루 평균 움직임 9.9달러 넘으면 500만원, 이하면 1,000만원 · 11/6: 10.5달러</div>
+  </div>
+
+  <section><h2>QQQ 가격별 할 일과 손익 표</h2>
+    <div class="tabs" role="group" aria-label="투자 금액"><button type="button" data-t="t5" aria-pressed="true">500만원 살 때</button><button type="button" data-t="t10" aria-pressed="false">1,000만원 살 때</button></div>
+    <div class="tbl" id="t5"><table>%%HEAD%%<tbody>%%T5%%</tbody></table></div>
+    <div class="tbl" id="t10" hidden><table>%%HEAD%%<tbody>%%T10%%</tbody></table></div>
+    <p class="foot">모두 미국 정규장 <b>종가</b> 기준이에요(장중 가격 아님). 손익은 687.07달러에 산 뒤 그 가격으로 끝났을 때예요. "여기서 꺾이면"은 그 칸 가격이 산 뒤 가장 높은 종가일 때, 거기서 떨어지면 언제 팔지예요. QLD 예상가는 QQQ 움직임의 2배로 어림한 값이에요.</p></section>
+
+  <section><h2>QQQ 가격별 계좌 금액 (1,000만원 기준, 손가락으로 눌러 보기)</h2>
+    <div class="cv"><canvas id="c1" aria-label="QQQ 가격별 계좌 금액"></canvas></div>
+    <p class="foot">파란 선 = 500만원만 샀을 때 계좌 전체(나머지 500만원은 현금). 초록 선 = 1,000만원 샀을 때. 사기 전(687 아래)은 현금 1,000만원 그대로.</p></section>
+
+  <section><h2>QQQ 최근 3개월 종가와 사기·매도 가격</h2>
+    <div class="cv s"><canvas id="c2" aria-label="QQQ 최근 3개월"></canvas></div></section>
+
+  <section class="cmp"><h2>부분 매도를 넣으면? (과거 1986~2026, 10년 단위 362번)</h2>
+    <div class="tbl"><table><thead><tr><th>방법</th><th>10년 중간(1년당)</th><th>가장 나빴던 10년</th><th>반 토막</th><th>가장 크게 떨어진 폭</th><th>2022년</th></tr></thead><tbody>%%TR%%</tbody></table></div>
+    <p class="foot">부분 매도 없이 하면 수익이 가장 높고, 고점 −7%에서 절반 팔면 가장 크게 떨어진 폭이 −52%→−40%, 2022년 −17%→−10%로 줄어요(대신 10년 중간 수익 −2.6%p). 1,000만원 기준 10년 뒤 중간값: 부분 매도 없음 약 5,500만원 / −7% 부분 매도 약 4,400만원.</p></section>
+</div>
+<script>
+const J=%%J%%;
+document.querySelectorAll('.tabs button').forEach(b=>b.onclick=()=>{document.querySelectorAll('.tabs button').forEach(x=>x.setAttribute('aria-pressed',x===b));['t5','t10'].forEach(id=>document.getElementById(id).hidden=id!==b.dataset.t)});
+const css=k=>getComputedStyle(document.documentElement).getPropertyValue(k).trim();
+function draw(){
+ if(!window.Chart)return;
+ const C={buy:css('--buy'),sell:css('--sell'),wait:css('--wait'),line:css('--line'),muted:css('--muted'),rule:css('--rule'),ink:css('--ink')};
+ Chart.defaults.color=C.muted;Chart.defaults.font.family="IBM Plex Sans KR, system-ui";
+ const vline=(x,c,t)=>({type:'line',label:t,data:[{x,y:700},{x,y:1300}],borderColor:c,borderDash:[6,4],borderWidth:1.5,pointRadius:0});
+ new Chart(document.getElementById('c1'),{type:'scatter',data:{datasets:[
+  {type:'line',label:'500만원 샀을 때',data:J.chart.x.map((x,i)=>({x,y:J.chart.a500[i]})),borderColor:C.line,borderWidth:2.5,pointRadius:0},
+  {type:'line',label:'1,000만원 샀을 때',data:J.chart.x.map((x,i)=>({x,y:J.chart.a1000[i]})),borderColor:C.buy,borderWidth:2.5,pointRadius:0},
+  vline(J.CUR,C.wait,'지금 656.10'),vline(J.SELL,C.sell,'전량 매도 673.50'),vline(J.BUY,C.buy,'사기 687.07')]},
+  options:{maintainAspectRatio:false,interaction:{mode:'nearest',axis:'x',intersect:false},
+   scales:{x:{type:'linear',title:{display:true,text:'QQQ 종가(달러)'},grid:{color:C.rule}},y:{title:{display:true,text:'계좌 금액(만원)'},grid:{color:C.rule},min:900,max:1300}},
+   plugins:{tooltip:{callbacks:{label:c=>`${c.dataset.label}: QQQ ${c.parsed.x.toFixed(2)} → ${c.parsed.y.toFixed(0)}만원`}}}}});
+ const n=J.qqq.c.length;
+ new Chart(document.getElementById('c2'),{type:'line',data:{labels:J.qqq.d,datasets:[
+  {label:'QQQ 종가',data:J.qqq.c,borderColor:C.line,borderWidth:2,pointRadius:0},
+  {label:'사기 687.07',data:Array(n).fill(J.BUY),borderColor:C.buy,borderDash:[6,4],pointRadius:0,borderWidth:1.5},
+  {label:'전량 매도 673.50',data:Array(n).fill(J.SELL),borderColor:C.sell,borderDash:[6,4],pointRadius:0,borderWidth:1.5}]},
+  options:{maintainAspectRatio:false,interaction:{mode:'index',intersect:false},scales:{x:{grid:{color:C.rule},ticks:{maxTicksLimit:6}},y:{grid:{color:C.rule}}}}});
+}
+draw();
+</script>

diff --git a/trading/qld-rule/build2.py b/trading/qld-rule/build2.py
@@ -1,0 +1,58 @@
+import json,sys
+X=float(sys.argv[1]) if len(sys.argv)>1 else 0.07   # 부분 매도 % (고점 대비)
+TR=json.loads(sys.argv[2]) if len(sys.argv)>2 else None  # 시험 결과 행
+d=json.load(open("qqq.json"))
+CUR,BUY,SELL,QLD0=656.10,687.07,673.50,74.11
+DATE="2026-11-06(목) 미국 정규장 종가"
+QLDB=QLD0*(1+2*(BUY/CUR-1)); qb=lambda p:QLDB*(1+2*(p/BUY-1)); QLDS=qb(SELL)
+pcts=[20,15,12.5,10,7.5,5,"B",None,0,-5,-10,-15]
+lv=[]
+for s in pcts:
+    if s=="B": p,lab=BUY,f"+{(BUY/CUR-1)*100:.1f}%"
+    elif s is None: p,lab=SELL,f"+{(SELL/CUR-1)*100:.1f}%"
+    else: p,lab=CUR*(1+s/100),("+" if s>0 else "")+(f"{s:g}%" if s else "0%")
+    lv.append((lab,round(p,2)))
+def man(v,sign=True): return ("+" if v>0 and sign else ("−" if v<0 else ""))+f"{abs(v):,.0f}만원"
+def table(A):
+    out=[];prev=None
+    for i,(lab,p) in enumerate(lv):
+        nxt=lv[i+1][1] if i+1<len(lv) else None
+        dcur=p-CUR; dstep=(p-nxt) if nxt else None
+        held=p>=BUY-0.01
+        if held:
+            q=qb(p);val=A*q/QLDB;pl=val-A;rt=pl/A*100
+            act="QLD 사기" if abs(p-BUY)<0.01 else "QLD 들고 있기"
+            ps=p*(1-X)
+            if ps>SELL+0.01:
+                qh=qb(ps);plh=A/2*(qh/QLDB-1)
+                part=f"QQQ {ps:.2f} 밑 마감 → 절반({A/2:,.0f}만원어치) 매도 · 그 절반 손익 {man(plh)}"
+            else: part="부분 매도 없이 아래 전량 매도선"
+            full=f"QQQ {SELL:.2f} 밑 마감 → 전량 매도 · 손익 {man(A*(QLDS/QLDB-1))}" if not (ps>SELL+0.01) else f"QQQ {SELL:.2f} 밑 마감 → 나머지 전량 매도 · 그 절반 손익 {man(A/2*(QLDS/QLDB-1))}"
+            out.append(dict(lab=lab,p=p,dcur=dcur,dstep=dstep,act=act,q=q,val=val,pl=pl,rt=rt,part=part,full=full,cls="hit" if act=="QLD 사기" else ""))
+        else:
+            q=QLD0*(1+2*(p/CUR-1))
+            out.append(dict(lab=lab,p=p,dcur=dcur,dstep=dstep,act="기다리기",q=q,val=A,pl=0,rt=0,part="—",full="—",cls="now" if abs(p-CUR)<0.01 else ""))
+    return out
+def rows_html(t):
+    h=""
+    for r in t:
+        h+=f'<tr class="{r["cls"]}"><td>{r["lab"]}</td><td>{r["p"]:.2f}</td><td>{r["dcur"]:+.2f}</td><td>{"" if r["dstep"] is None else f"{r[chr(100)+chr(115)+chr(116)+chr(101)+chr(112)]:+.2f}"}</td><td class="act">{r["act"]}</td><td>{r["q"]:.2f}</td><td>{r["val"]:,.0f}만원</td><td class="{ "pos" if r["pl"]>0 else ""}">{man(r["pl"]) if r["act"]!="기다리기" else "0"}</td><td>{r["rt"]:+.1f}%</td><td class="txt">{r["part"]}</td><td class="txt">{r["full"]}</td></tr>'
+    return h
+t5,t10=table(500),table(1000)
+head='<thead><tr><th>QQQ 변동<br>(종가 대비)</th><th>QQQ 가격</th><th>지금보다<br>(달러)</th><th>아래 칸보다<br>(달러)</th><th>할 일</th><th>QLD 예상가</th><th>QLD 평가금액</th><th>손익</th><th>수익률</th><th>여기서 꺾이면 ① 부분 매도</th><th>② 전량 매도</th></tr></thead>'
+# chart data
+xs=[round(CUR*(1+k/1000),2) for k in range(-150,201,5)]
+def acct(A,p): return A if p<BUY else round(A*qb(p)/QLDB,1)
+data=dict(x=xs,a500=[acct(500,p)+500 if False else (500+ (acct(500,p)-500)) for p in xs],a1000=[acct(1000,p) for p in xs])
+data["a500"]=[ (1000 if p<BUY else 500+acct(500,p)) for p in xs]   # 1,000만원 중 500만원 투자 시 계좌 총액
+data["a1000"]=[ (1000 if p<BUY else acct(1000,p)) for p in xs]
+qqq=dict(d=[x[0][5:] for x in d],c=[x[1] for x in d])
+tr_rows=""
+if TR:
+    for r in TR: tr_rows+="<tr>"+"".join(f"<td>{c}</td>" for c in r)+"</tr>"
+J=json.dumps(dict(chart=data,qqq=qqq,BUY=BUY,SELL=SELL,CUR=CUR,X=X))
+tpl=open("tpl2.html",encoding="utf-8").read()
+out=(tpl.replace("%%DATE%%",DATE).replace("%%HEAD%%",head).replace("%%T5%%",rows_html(t5)).replace("%%T10%%",rows_html(t10))
+ .replace("%%J%%",J).replace("%%XP%%",f"{X*100:g}").replace("%%QLDB%%",f"{QLDB:.2f}").replace("%%QLDS%%",f"{QLDS:.2f}")
+ .replace("%%L5%%",man(500*(QLDS/QLDB-1))).replace("%%L10%%",man(1000*(QLDS/QLDB-1))).replace("%%TR%%",tr_rows))
+open("index.html","w",encoding="utf-8").write(out);print("ok")
